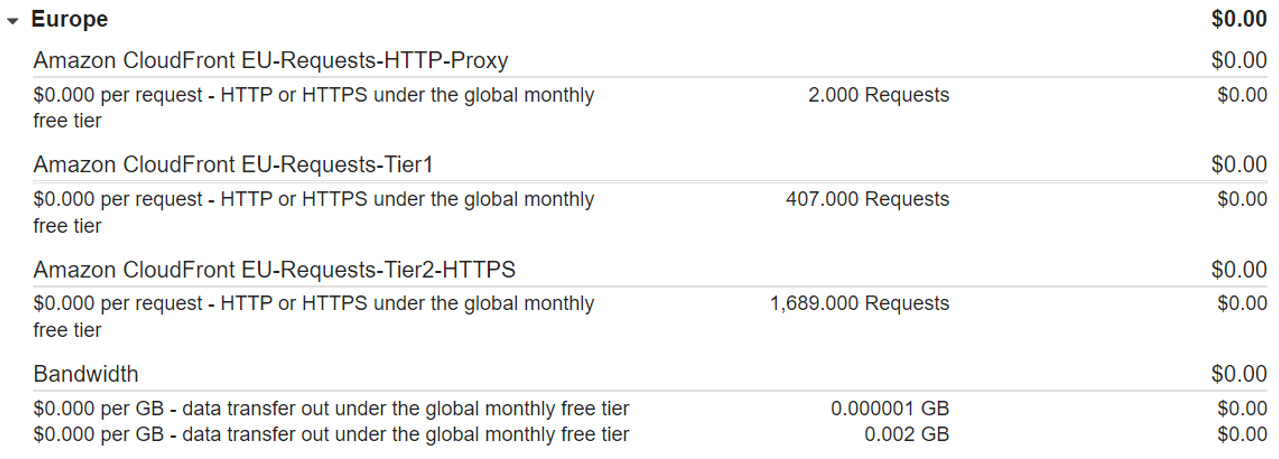
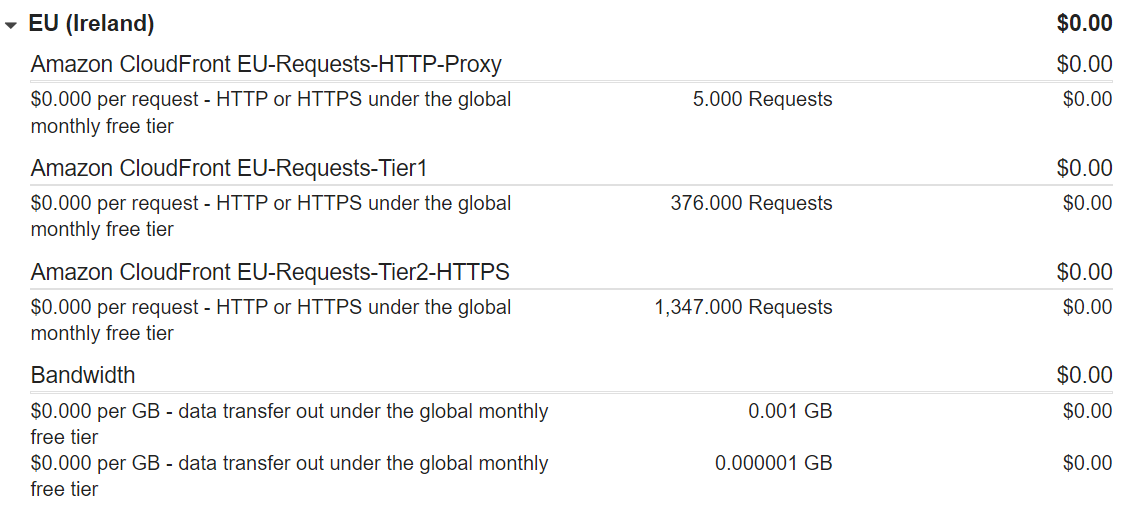
Modify 'one month invoice' of part 8 project 1

diff --git a/projects/project-1/part-8/README.md b/projects/project-1/part-8/README.md
@@ -98,7 +98,7 @@ But for the more skeptical, let's take a look at one month of the project's prod
 
 ### C.	One month invoice
 
->The following invoice is based on a two week deployment (exactly fifteen days). In the near future, a one month deployment invoice will be published instead of this one. For the time being, in order to simulate a one month invoice, the Free Tier usage should not exceed 50%.
+> This invoice was made for the month of February 2022, one and a half months after the project was completed. During this month the site was hardly used, but remained online all the time. So this is what you get if you leave your site running without much use.
 
 #### S3:
 S3 Buckets are created in us-east-1, so we refer to the billing for that region only.
@@ -107,10 +107,10 @@ S3 Buckets are created in us-east-1, so we refer to the billing for that region 
 
 **What is observed:**
 - Requests (Free Tier: 2,000 PUT & 20,000 GET):
-    - 173 PUT, COPY, POST or LIST requests used = 8.65% of the Free Tier used;
-    - 3,594 GET requests used = 17.97% of the Free Tier used.
+    - 5 PUT, COPY, POST or LIST requests used = 0.25% of the Free Tier used;
+    - 1,886 GET requests used = 9.43% of the Free Tier used.
 - Storage (Free Tier: 5 GB):
-    - 0.000000300 GB used = 0.000006% of the Free Tier used.
+    - 0.000001 GB used = 0.00002% of the Free Tier used.
 
 #### CloudFront:
 Remember, for the *cif-project.com* website, the Price Class 100 was chosen; therefore, invoices will be generated only for North America and Europe.
@@ -119,7 +119,7 @@ Remember, for the *cif-project.com* website, the Price Class 100 was chosen; the
 
 **What is observed:**
 - Requests (Free Tier: 2,000,000 HTTPS or HTTPS Requests):
-    - 5 + 443 + 1,629 = 2,077 requests used = 0.10% of the Free Tier used.
+    - 3 + 327 + 1,033 = 1,363 requests used = 0.07% of the Free Tier used.
 - Storage (Free Tier: 50 GB):
     - 0.001 + 0.000001 = 0.001001 GB used = 0.002% of the Free Tier used.
 
@@ -127,9 +127,9 @@ Remember, for the *cif-project.com* website, the Price Class 100 was chosen; the
 
 **What is observed:**
 - Requests (Free Tier: 2,000,000 HTTPS or HTTPS Requests):
-    - 2 + 407 + 1689 = 2,098 requests used = 0.1049% of the Free Tier used.
+    - 5 + 376 + 1347 = 1,728 requests used = 0.09% of the Free Tier used.
 - Storage (Free Tier: 50 GB):
-    - 0.002 + 0.000001 = 0.002001 GB used = 0.002% of the Free Tier used.
+    - 0.001 + 0.000001 = 0.001001 GB used = 0.002% of the Free Tier used.
 
 #### Route 53:
 
@@ -137,7 +137,7 @@ Remember, for the *cif-project.com* website, the Price Class 100 was chosen; the
 
 **What is observed:**
 - Queries (not free):
-    - 3,761 queries = $0.0015044;
+    - 2,785 queries = $0.001114;
     - Queries to Alias records are free of charge.
 - Hosted Zone (not free):
     - $0.50 per month.
@@ -147,8 +147,8 @@ No invoice since the creation of our SSL certificate is totally free.
 
 ...
 
-In fifteen days, the Free Tier was used at a maximum of 17.97%. We are far below the 50% mark.
+In one month, the Free Tier was used at a **maximum of 9.43%**.
 
-#### In one month, the Free Tier threshold will never be exceeded. We can conclude that the project is clearly feasible with an annual budget of less than $20.
+#### In one month, with light use of the website, the Free Tier threshold will never be exceeded. We can conclude that the project is clearly feasible with an annual budget of less than $20.
 
 ### [Go back](../)
